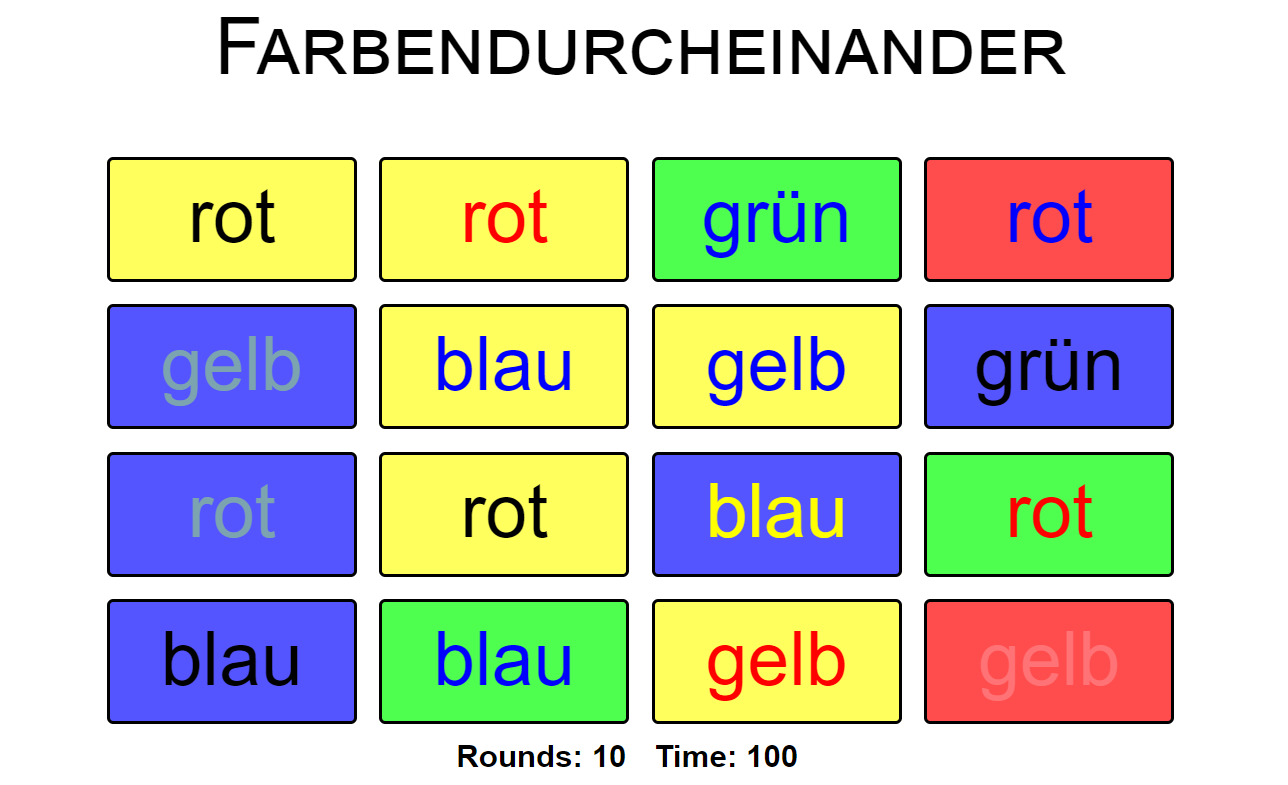
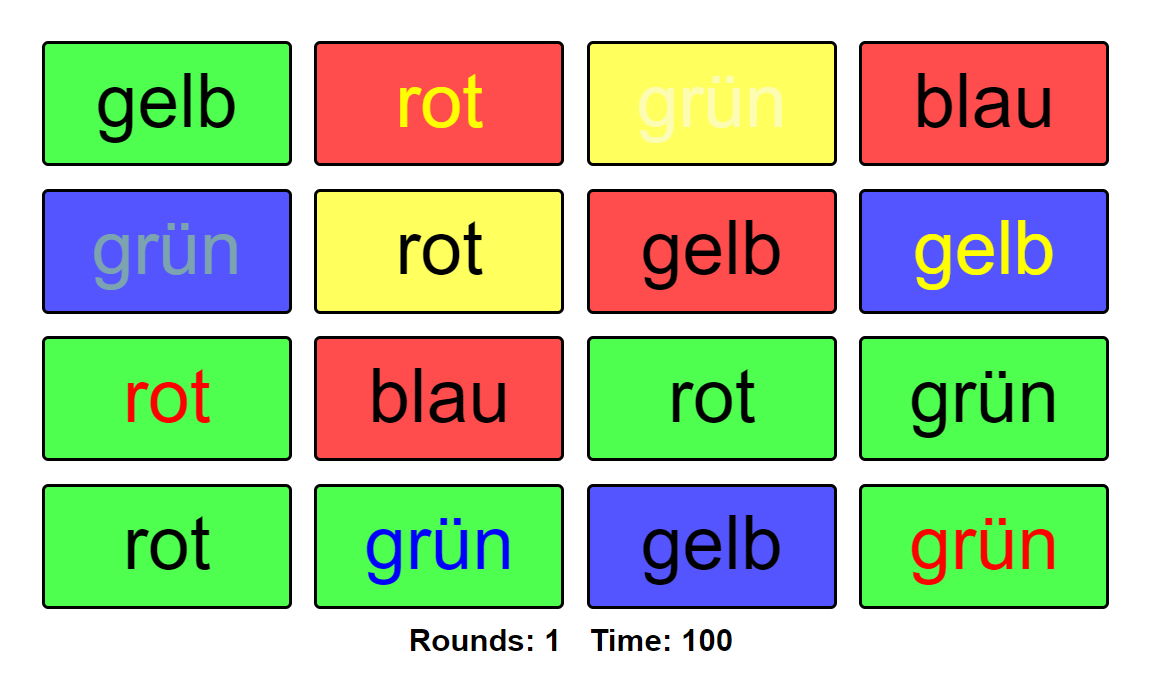
Spielebilderanpassung

diff --git a/ghostcovid/src/views/Spiele.vue b/ghostcovid/src/views/Spiele.vue
@@ -31,7 +31,7 @@
             Ziel ist es, die Zahlen möglichst schnell in die richtige Reihenfolge zu bringen. <br><br>
             Dabei kann man durch Anklicken eine Zahl verschieben - dies funktioniert jedoch nur, wenn ein Nebenfeld dieser Zahl frei ist.
             Die Zahlen müssen so angeordnet werden, dass in der obersten Reihe die Ziffern 1 bis 4 stehen und in der untersten 13 bis 15.
-            Das Feld rechts unten in der Ecke mus am Ende frei sein, damit man gewonnen hat. <br>
+            Das Feld rechts unten in der Ecke muss am Ende frei sein, damit man gewonnen hat. <br>
             <router-link to="/training/spiele/schiebepuzzle"><button class="waves-effect waves-light buttoninf">Spiel starten</button></router-link>
           </div>
         </div>
@@ -42,12 +42,7 @@
             <img class="infogr" src="../assets/farbenspiel.png" />
           </div>
           <div class="col s6 infotext">
-            ... Geimpfte Menschen berichten, mehr Menschen mit Long-COVID zu kennen als Ungeimpfte. Eine Ursache-Wirkungs-Interpretation 
-            ist hier allerdings nicht möglich. In der Tendenz sind Ungeimpfte, die Menschen mit Long-COVID kennen eher impfbereiter 
-            als Menschen, die niemanden mit Long-COVID kennen (n.s., p = 0.08). Ungeachtet des Impfstatus macht aber eine Bekanntschaft 
-            mit Long-COVID etwas mit der eigenen Wahrnehmung: Befragungsteilnehmende, die jemanden mit Long-COVID kennen, schätzen eine 
-            Infektion als risikoreicher (schwerwiegender) ein, haben mehr Angst vor einer Infektion und haben mehr Sorgen über 
-            Langzeitfolgen. Außerdem sind sie eher für eine Impfpflicht als Menschen, die niemanden mit Long-COVID kennen. ... <br>
+            Erklärung von Sarahhhhhhhhhhhhhh<br>
             <router-link to="/training/spiele/merksdir"><button class="waves-effect waves-light buttoninf">Spiel starten</button></router-link>
           </div>
         </div>
@@ -58,8 +53,9 @@
             <img class="infogr" src="../assets/farbenspiel.png" />
           </div>
           <div class="col s6 infotext">
-            Das Ziel ist es die Farbe zu finden, bei der die Schrift schwarz ist und die Hintergrundfarbe mit dem Farbnamen übereinstimmt<br><br>
+            Das Ziel ist es die Farbe zu finden, bei der die Schrift schwarz ist und die Hintergrundfarbe mit dem Farbnamen übereinstimmt.
             Dabei muss die richtige Farbe mittels Klick aus den 16 Optionen ausgewählt werden.<br>
+            Wenn man 20 richtige Felder gefunden hat, hat man gewonnen. <br>
             <router-link to="/training/spiele/farben"><button class="waves-effect waves-light buttoninf">Spiel starten</button></router-link>
           </div>
         </div>
